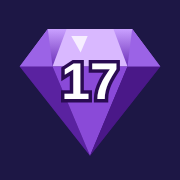
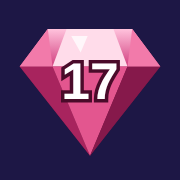
Розовая иконка для розовой свадьбы
Claude-Session: https://claude.ai/code/session_01N2juouS2V9Snth3rHSj7Tn

Changed region(s): [[0.1111, 0.1389, 0.8889, 0.8611]]

diff --git a/index.html b/index.html
@@ -4,8 +4,8 @@
 <meta charset="utf-8">
 <meta name="viewport" content="width=device-width,initial-scale=1,viewport-fit=cover">
 <meta name="robots" content="noindex">
-<link rel="icon" type="image/svg+xml" href="favicon.svg">
-<link rel="apple-touch-icon" href="apple-touch-icon.png">
+<link rel="icon" type="image/svg+xml" href="favicon.svg?v=2">
+<link rel="apple-touch-icon" href="apple-touch-icon.png?v=2">
 <style>:root{padding-top:env(safe-area-inset-top,0px);padding-bottom:env(safe-area-inset-bottom,0px)}body{margin:0}img{max-width:100%}[hidden]{display:none!important}</style>
 <title>Шампанское Кати и Андрея</title>
 <meta name="claude:viewport-fit-sides" content="cover">
